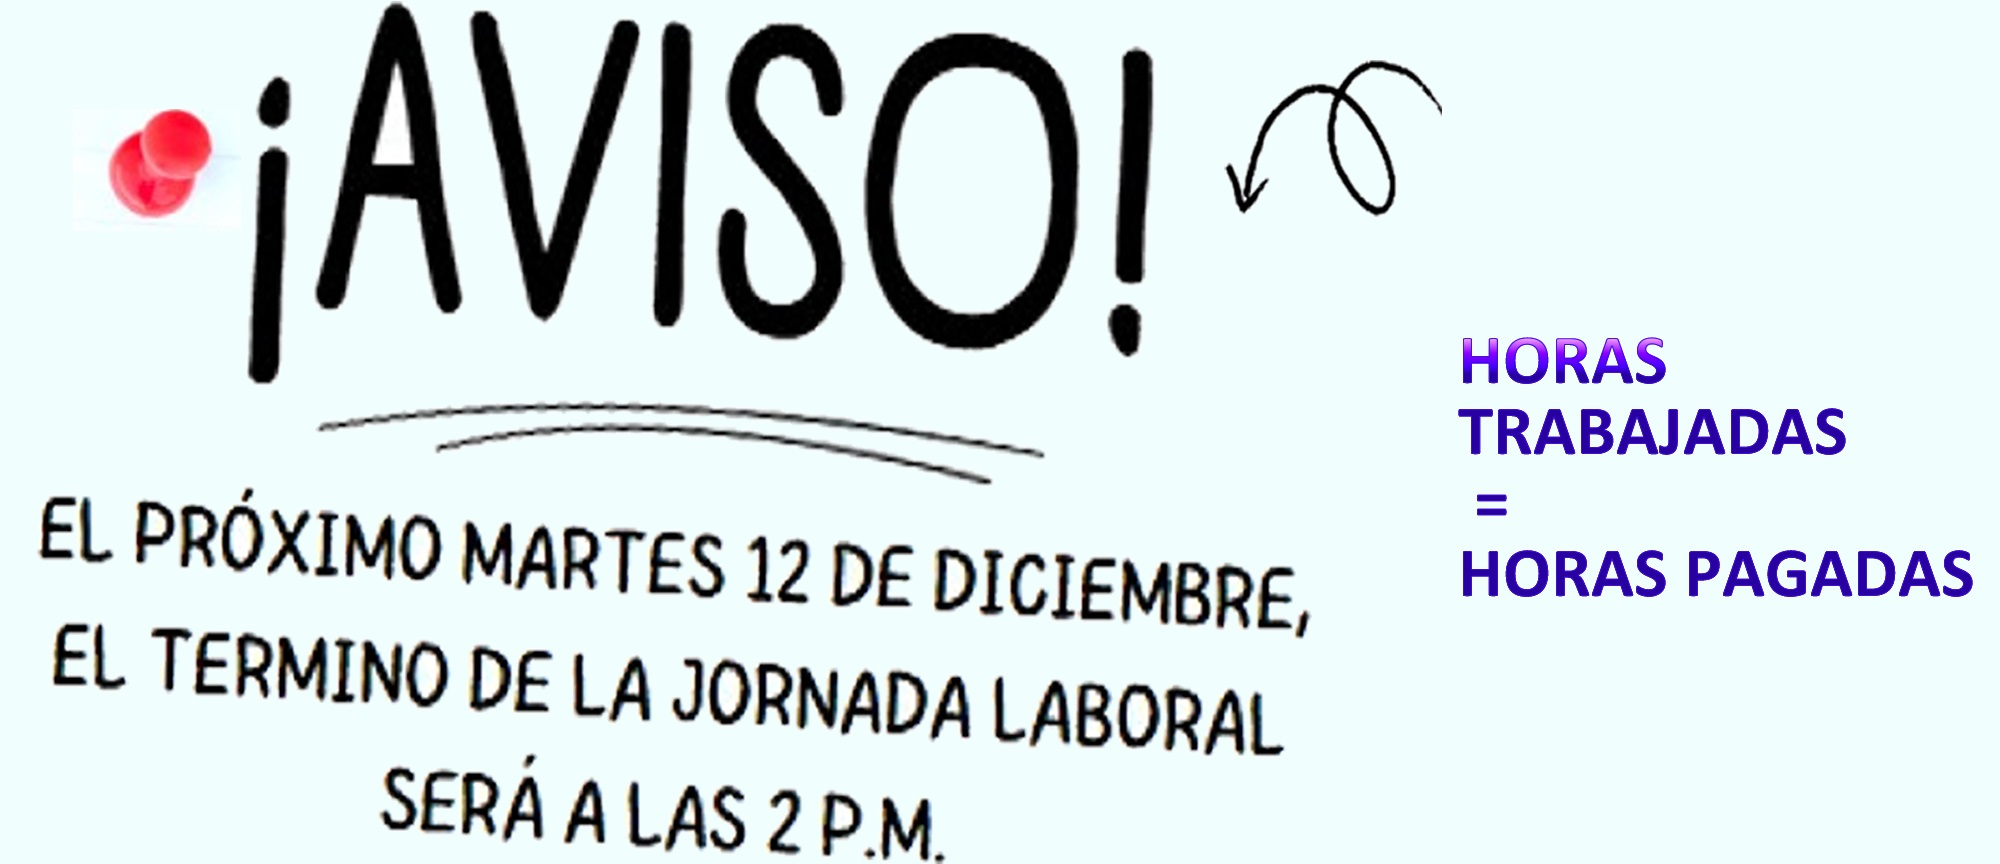
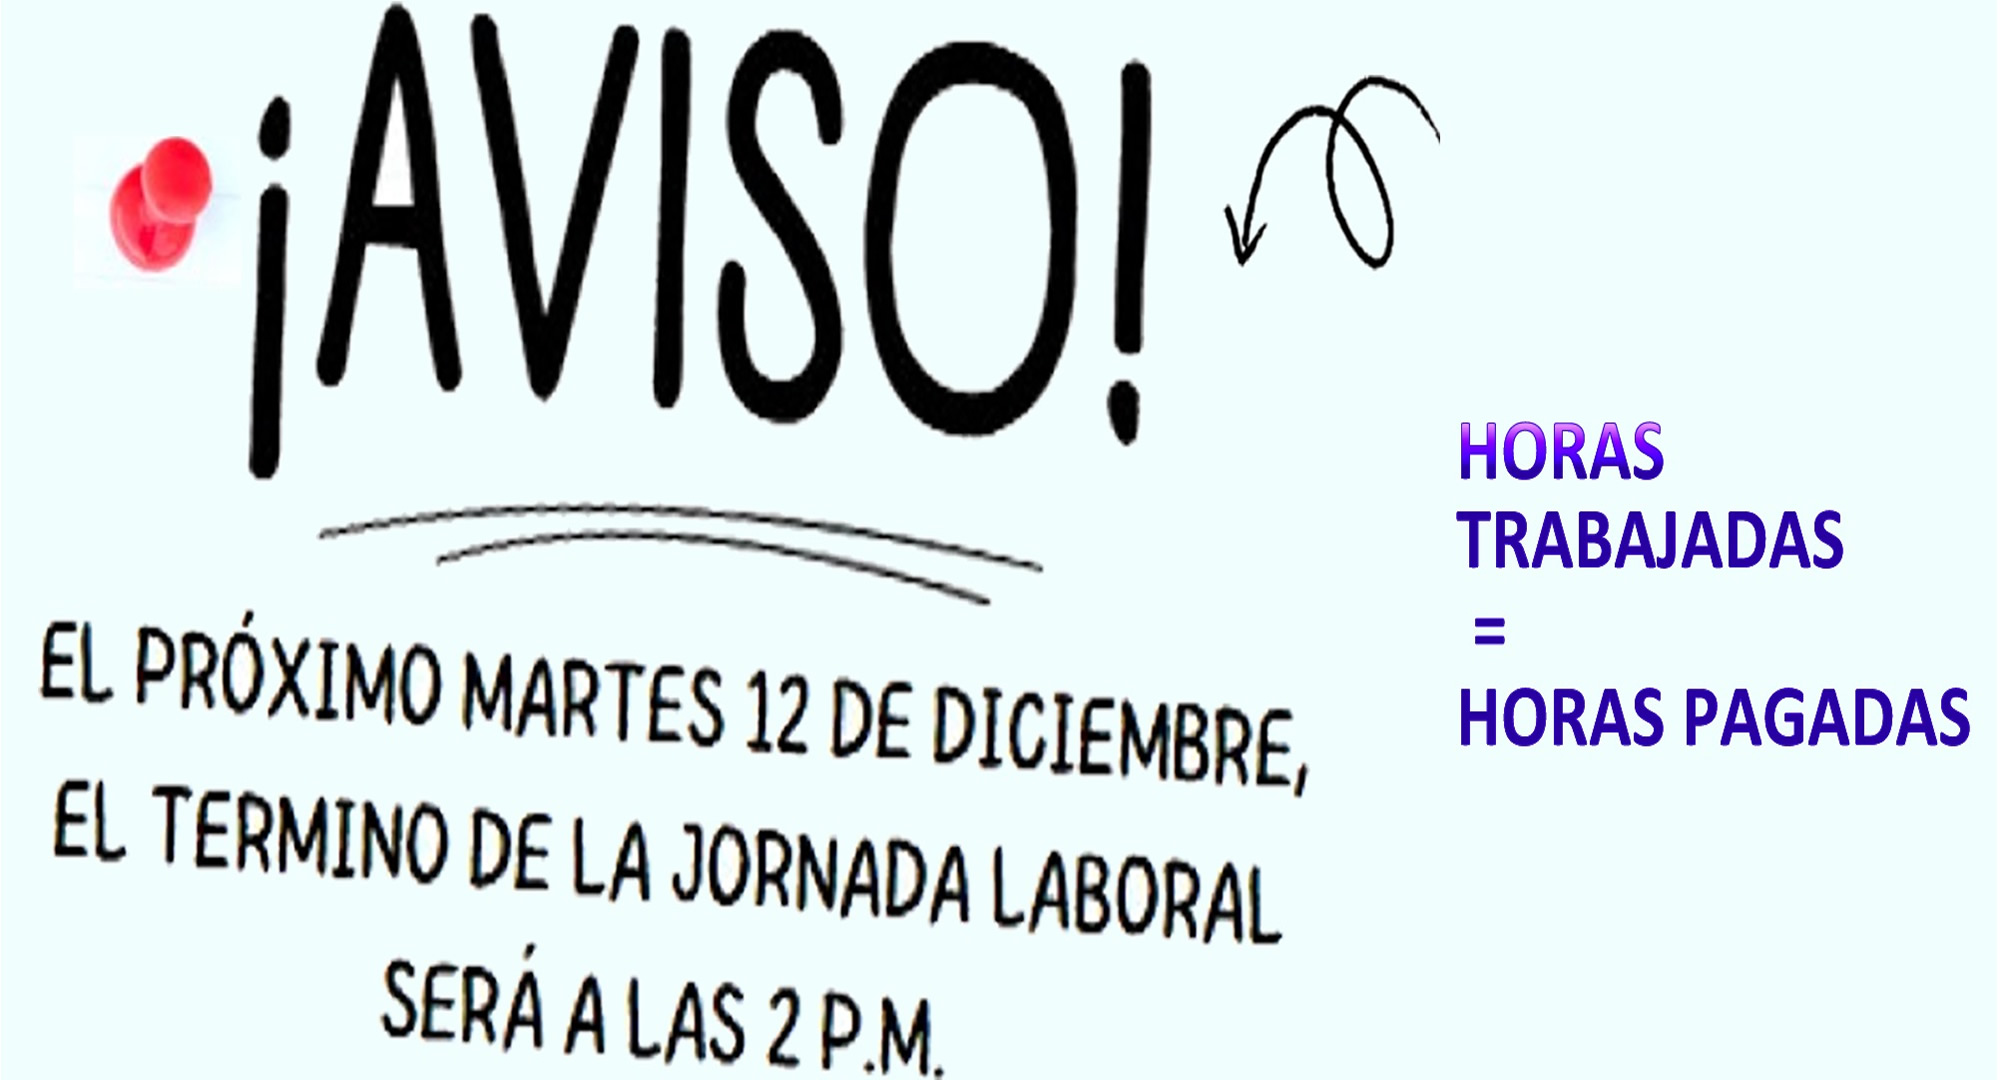
*feat, se realizo un nuevo cambio al momento de ver los anuncios y fallas, el problema fue que en las pantallas no funcionaba del todo bien, por lo tanto se hecho para atras el nuevo funcionamiento.

diff --git a/build/web/css/opcional.css b/build/web/css/opcional.css
@@ -86,6 +86,10 @@ hr{
     position: absolute;
     z-index: 1
 }
+.maxtamanoimagenanuncio{
+    max-width: 1920px;
+    max-height: 1080px    
+}
 .fondopantallafondo{
     position: absolute;
     z-index: -1;

diff --git a/web/css/opcional.css b/web/css/opcional.css
@@ -86,6 +86,10 @@ hr{
     position: absolute;
     z-index: 1
 }
+.maxtamanoimagenanuncio{
+    max-width: 1920px;
+    max-height: 1080px    
+}
 .fondopantallafondo{
     position: absolute;
     z-index: -1;
